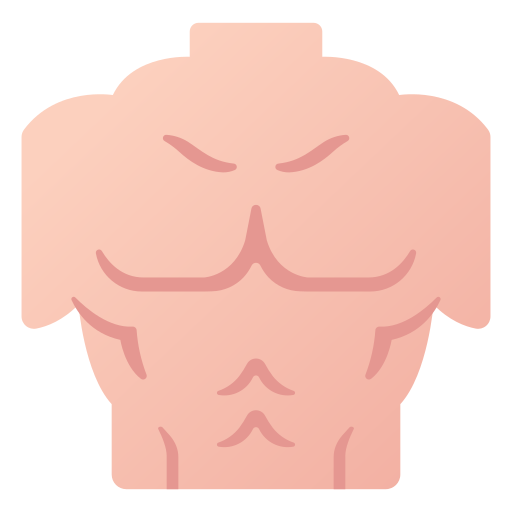
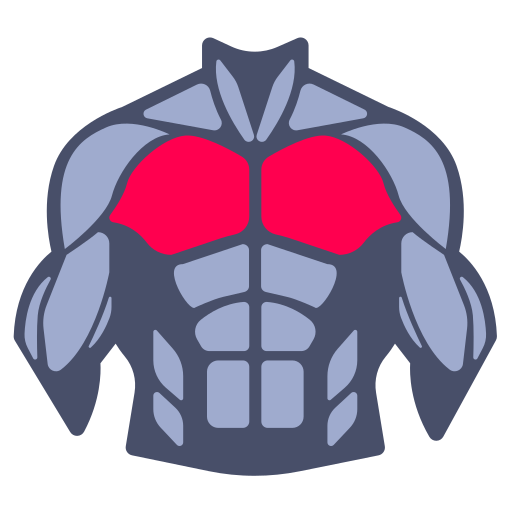
feat: images PNG pour tous les groupes musculaires

diff --git a/prisma/seed.ts b/prisma/seed.ts
@@ -20,12 +20,12 @@ const prisma = new PrismaClient({ adapter })
 
 const muscleGroups = [
   { name: "Pectoraux", slug: "pectoraux", image: "/groups/pectoraux.png" },
-  { name: "Dos", slug: "dos", image: "🔙" },
-  { name: "Épaules", slug: "epaules", image: "🏔" },
-  { name: "Biceps", slug: "biceps", image: "💪" },
-  { name: "Triceps", slug: "triceps", image: "🦾" },
-  { name: "Abdominaux", slug: "abdominaux", image: "🎯" },
-  { name: "Jambes", slug: "jambes", image: "🦵" },
+  { name: "Dos", slug: "dos", image: "/groups/dos.png" },
+  { name: "Épaules", slug: "epaules", image: "/groups/epaule.png" },
+  { name: "Biceps", slug: "biceps", image: "/groups/biceps.png" },
+  { name: "Triceps", slug: "triceps", image: "/groups/triceps.png" },
+  { name: "Abdominaux", slug: "abdominaux", image: "/groups/abdominaux.png" },
+  { name: "Jambes", slug: "jambes", image: "/groups/Jambes.png" },
   { name: "Fessiers", slug: "fessiers", image: "🍑" },
 ]
 
